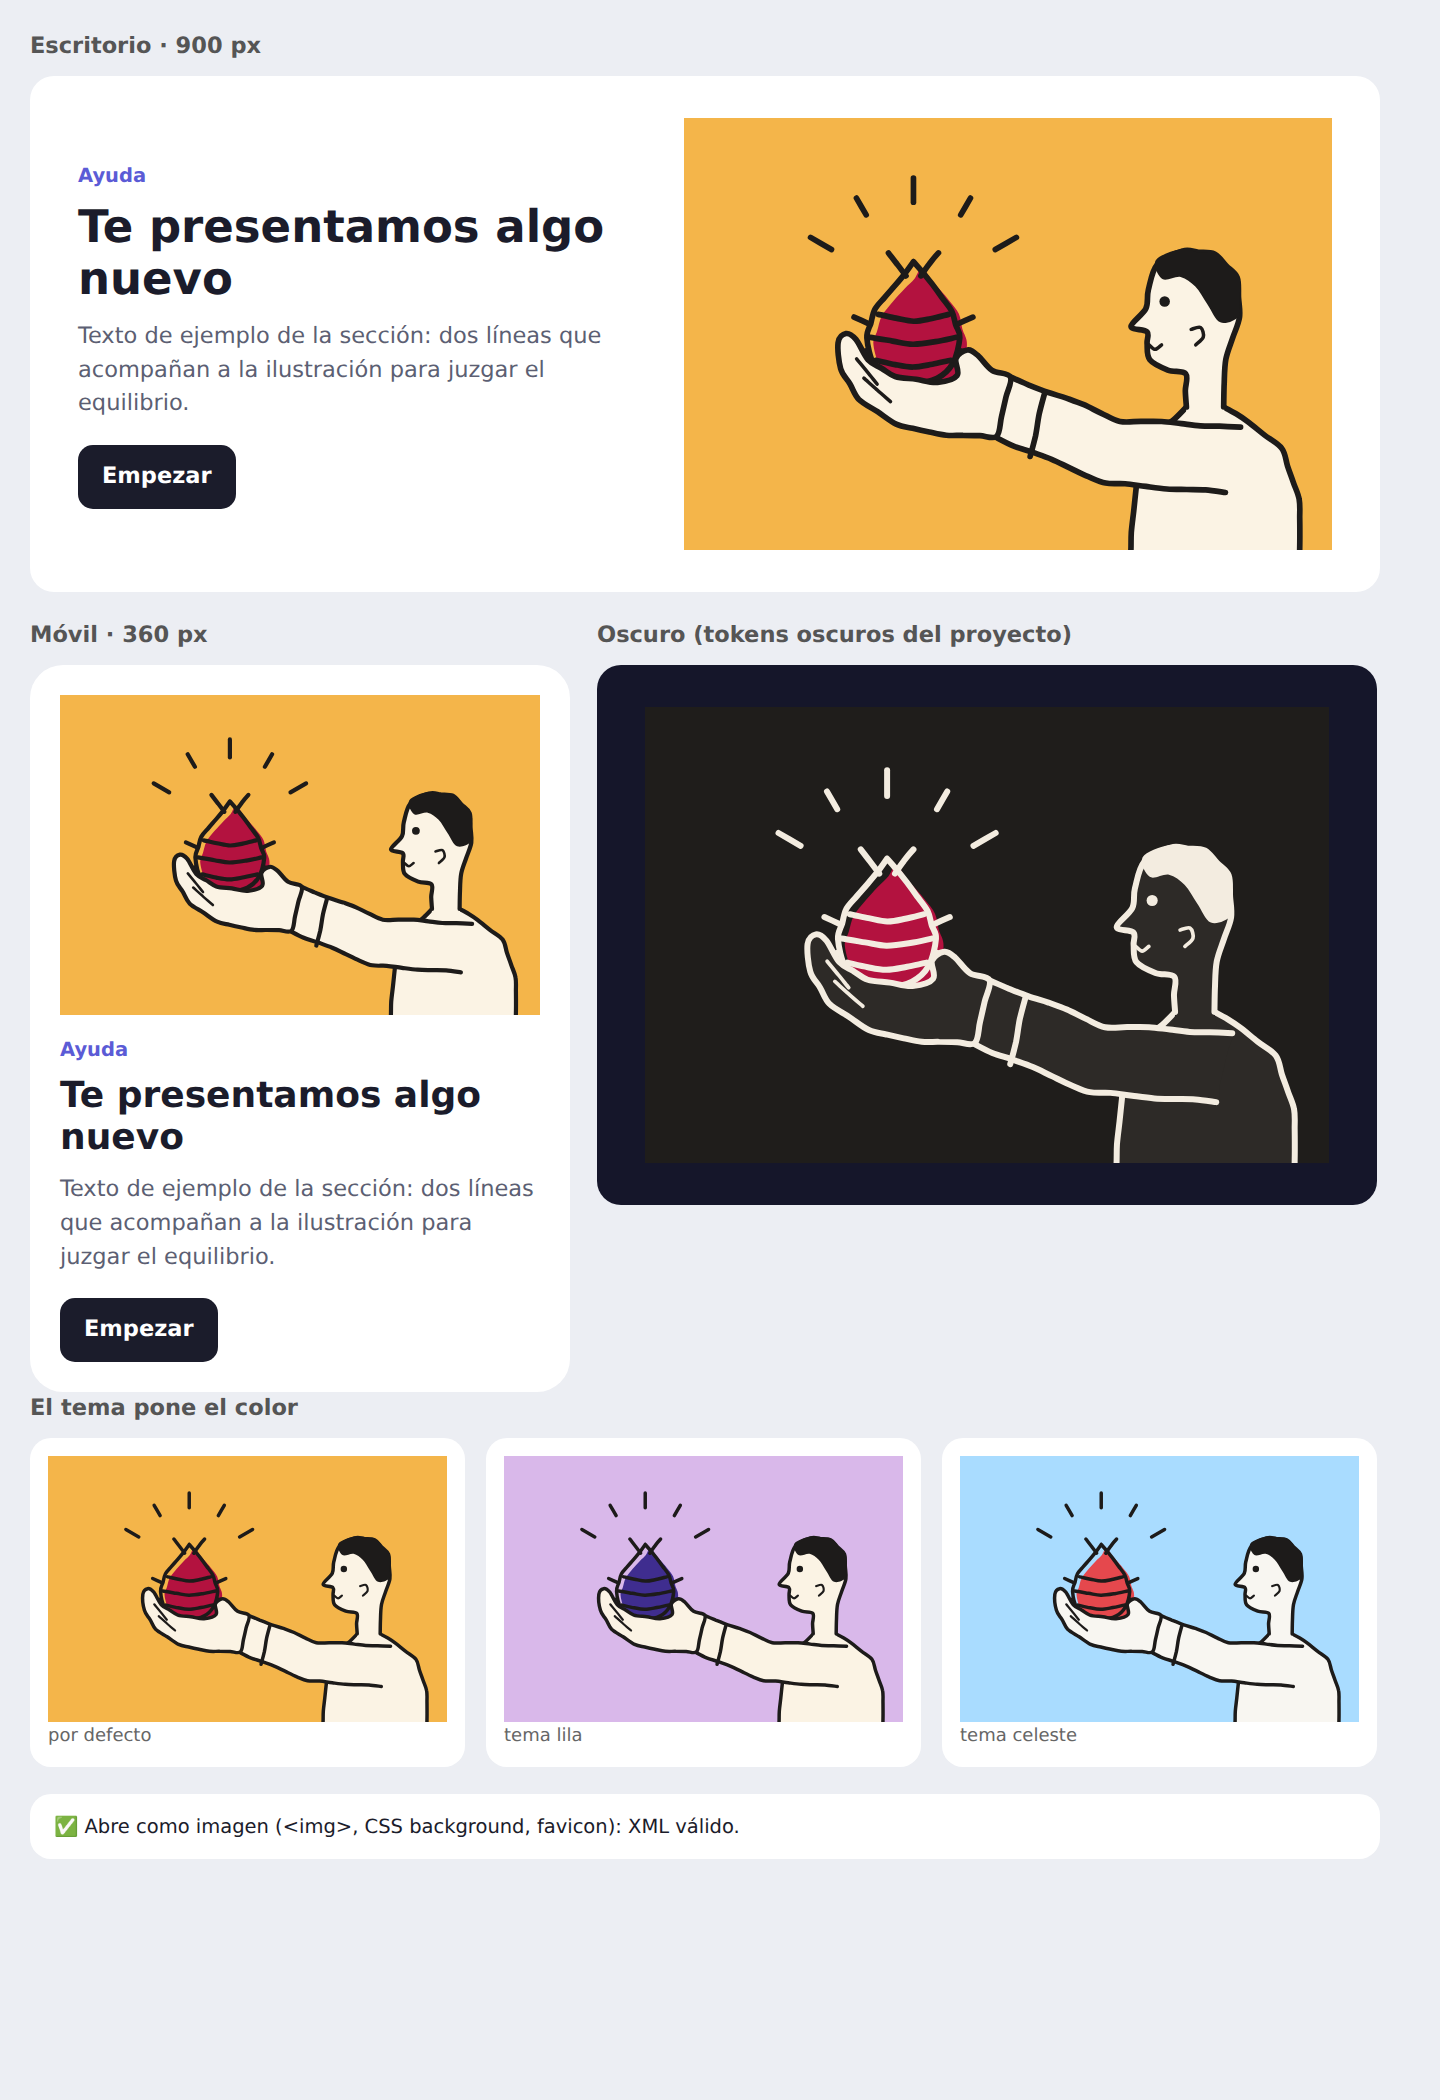
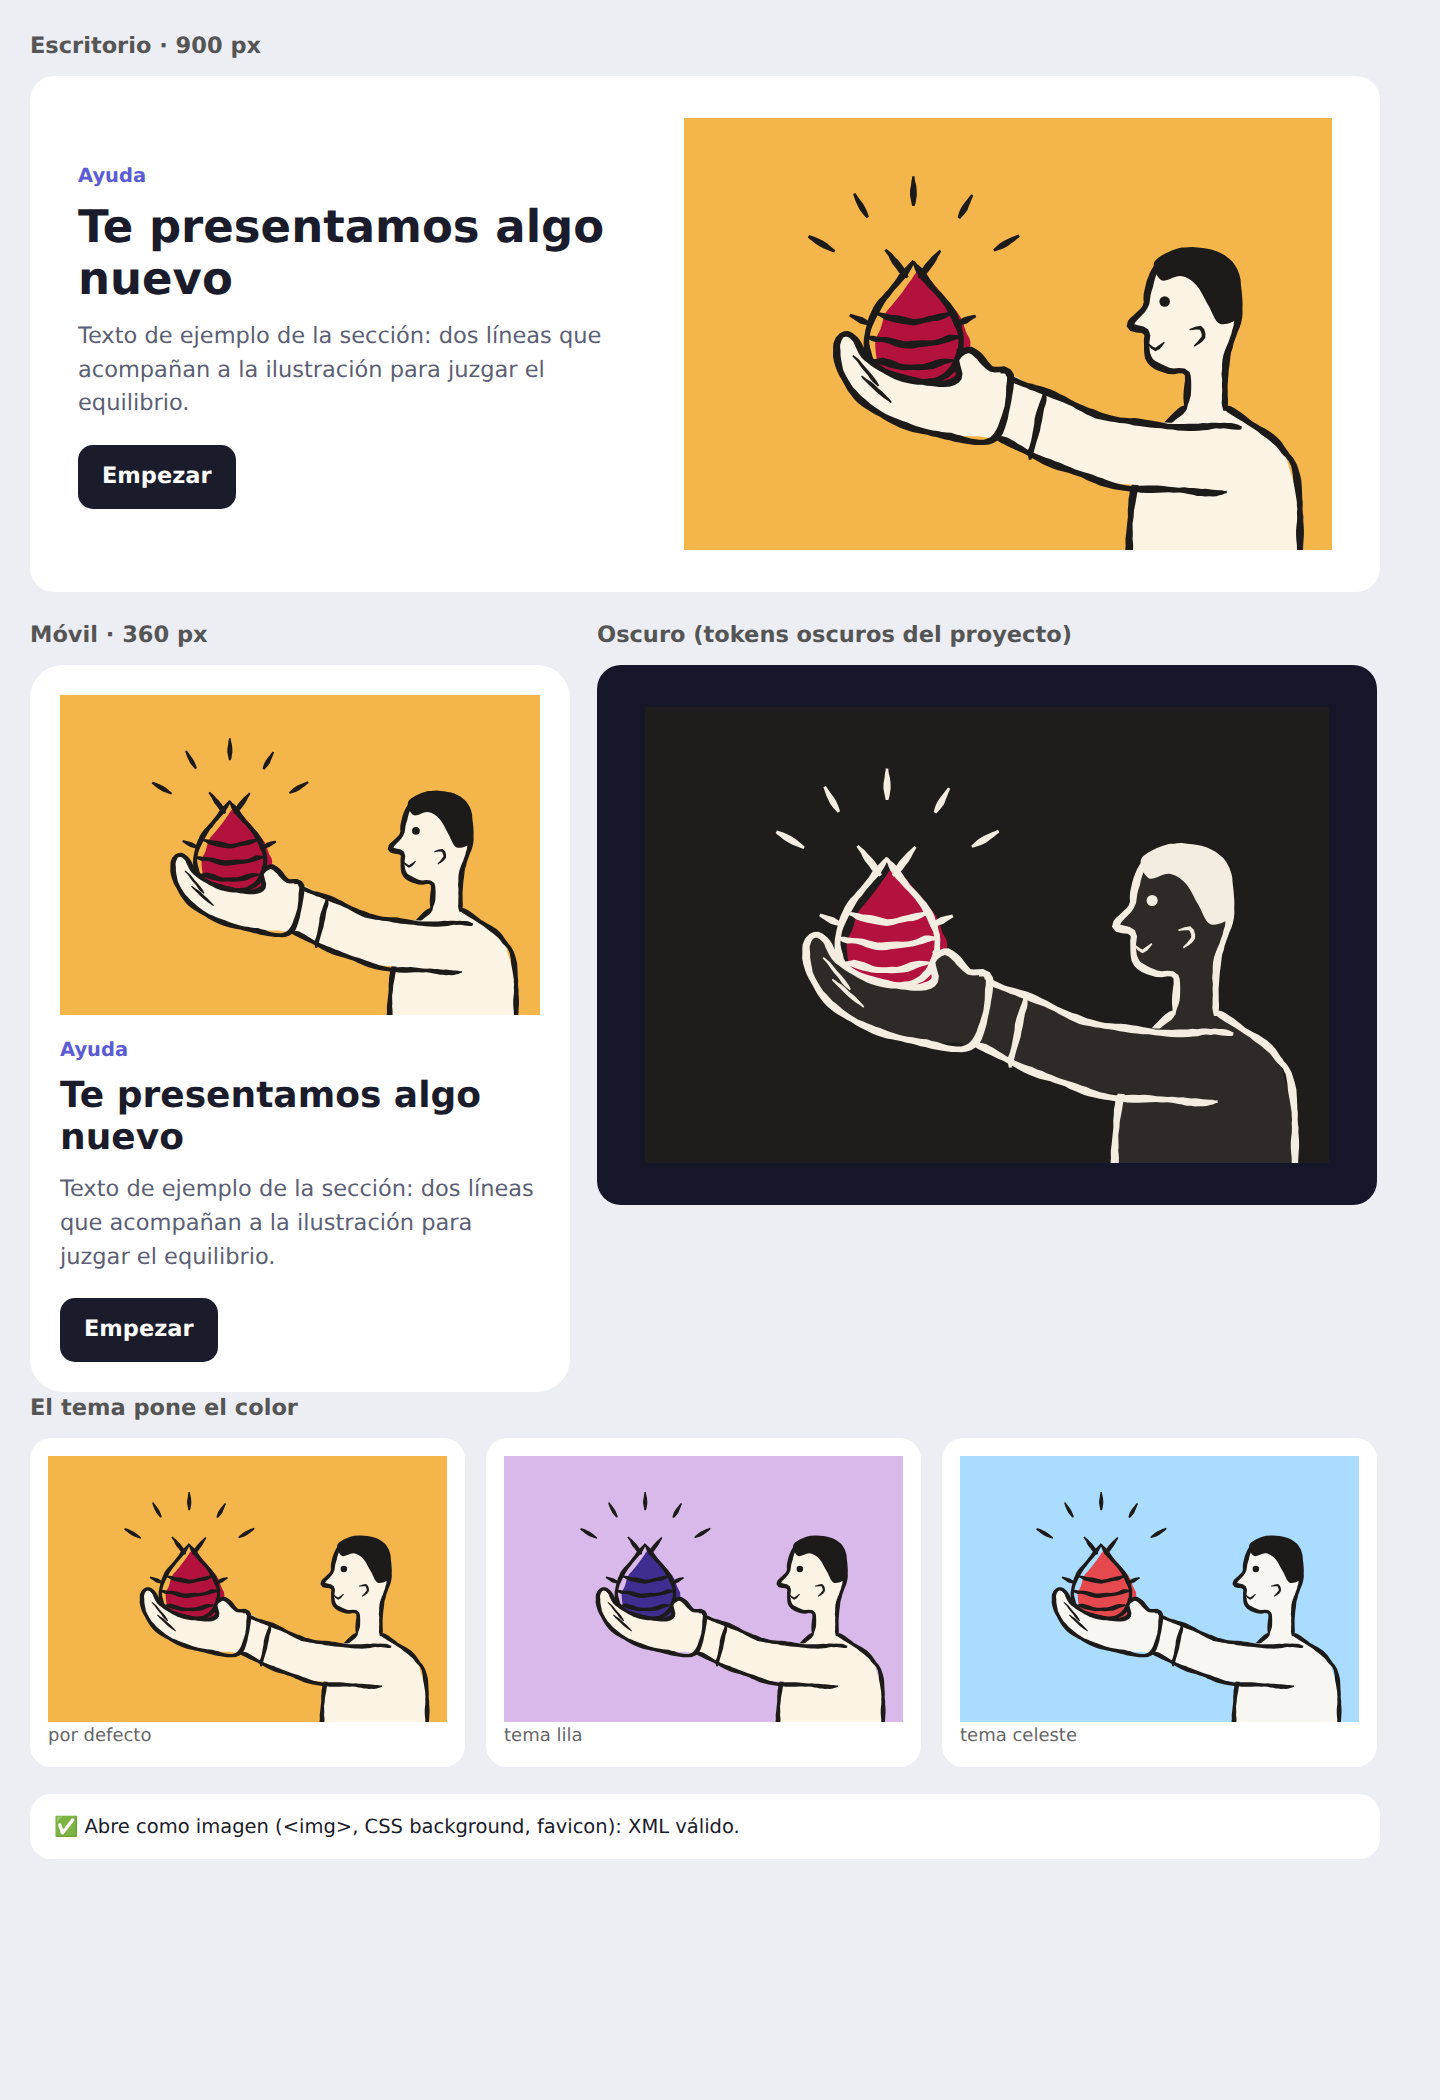
mango: trazo orgánico de grosor variable
Las líneas pasan a ser cintas rellenas cuyo grosor sigue la presión de la
mano (entran finas, salen afinándose, ondulan), con borde áspero y extremos
que se pasan; temblor y grano se escalan con la longitud del trazo para que
los gestos cortos sean firmes. Regla M3, contrato, kit y ejemplos al día.

Claude-Session: https://claude.ai/code/session_0139TfWapUP1QyepGUZapXLH

diff --git a/agentes/mango/references/reglas.md b/agentes/mango/references/reglas.md
@@ -10,10 +10,10 @@ Cada regla: **regla → mecanismo → cómo comprobarlo**. Salieron de construir
 - **Regla:** la escena cuenta el mensaje con un gesto o una situación con ingenio (alguien que se asoma, un brazo que sale de un agujero, un objeto con vida, rayitas de «¡ta-dá!»). La escena literal es el último recurso.
 - **Comprobar:** ¿se entiende el mensaje sin el titular y tiene algo que sorprende?
 
-## M3 · Temblor de rotulador, determinista
-- **Regla:** todo contorno pasa por `trazo()` con `semilla()` fija en la escena; amplitud 0.8 en trazos largos, 0.2–0.4 en cortos y detalles. Los extremos de un trazo abierto no tiemblan, para que las uniones encajen.
-- **Mecanismo:** el temblor lento (no ruido) imita el pulso de la mano y hace que las imperfecciones parezcan intención; la semilla fija hace que el dibujo no cambie al regenerarlo.
-- **Comprobar:** regenera dos veces: ¿sale idéntico? ¿Alguna unión se abre?
+## M3 · Trazo orgánico, determinista
+- **Regla:** toda línea es un `trazoOrganico()` (vía `linea()`) con `semilla()` fija en la escena: una cinta rellena cuyo grosor sigue la presión de la mano (entra fino en ~6 unidades, sale afinándose en ~9, ondula despacio por el medio), con el borde áspero y los extremos que se pasan un poco; las formas cerradas se solapan al cerrar.
+- **Mecanismo:** un trazo de grosor fijo y borde perfecto se lee como máquina aunque tiemble. La presión variable, el grano y las uniones imperfectas son lo que el ojo reconoce como mano. Temblor y grano se escalan con la longitud: un gesto corto (rayita, antena) es firme y afilado, no retorcido.
+- **Comprobar:** regenera dos veces: ¿sale idéntico? En la captura, ¿las rayitas son trazos firmes y los contornos largos varían de grosor?
 
 ## M4 · Relleno desplazado solo en el foco
 - **Regla:** el relleno de `acento` del objeto foco va desplazado ~6 unidades del contorno (impresión mal registrada); el resto de rellenos (`papel`) coinciden con su contorno.

diff --git a/agentes/mango/references/kit.md b/agentes/mango/references/kit.md
@@ -21,8 +21,9 @@ writeFileSync('presenta.svg', ilustracion({ id: 'presenta', titulo: 'Una persona
 | Pieza | Parámetros y retorno |
 |---|---|
 | `semilla(n)` | fija el temblor (M3) |
-| `trazo(pts, {cerrado, temblor, paso})` | camino suave con temblor por los puntos de control |
-| `linea(pts, {fina, cerrado, temblor})` / `relleno(rol, pts, {desplaza})` | línea de tinta / forma rellena (con desplazamiento opcional, M4) |
+| `trazoOrganico(pts, {cerrado, ancho, temblor})` | la línea de mano: cinta rellena con presión variable, grano y extremos que se pasan (M3); `linea()` la usa |
+| `trazo(pts, {cerrado, temblor, paso})` | contorno suave con temblor, para los rellenos |
+| `linea(pts, {fina, cerrado, temblor})` / `relleno(rol, pts, {desplaza})` | línea de tinta (gruesa 4.8 o fina 2.8) / forma rellena (con desplazamiento opcional, M4) |
 | `tf(pts, {x, y, s, rot, flip})` | transforma puntos antes del temblor (el temblor no se escala) |
 | `brazo({desde, hasta, ancho, curva, puno})` | manga de papel con puño → `{ svg, muneca, angulo }` |
 | `mano({x, y, rot, s, flip, gesto})` | `cuenco` (palma arriba, sostiene), `senala` (índice), `abierta` (saludar, chocar) → `{ svg, apoyo }`. Con el brazo hacia la izquierda: `flip: true, rot: angulo - 180` |

diff --git a/agentes/mango/references/contrato-svg.md b/agentes/mango/references/contrato-svg.md
@@ -22,7 +22,7 @@ La columna **Verifica** es el código de `scripts/check-ilustracion.mjs`; «manu
 
 ## Roles de color
 
-`fondo` (rectángulo de fondo), `tinta` (líneas, ojos, masas oscuras), `papel` (relleno de personas y objetos claros), `acento` (el foco), `acento-2` (segundo color, opcional). Token: `--mango-<rol>`. Valores por defecto y de modo oscuro: `ROLES` y `DARK` en `scripts/kit.mjs`. Las líneas usan las clases `mango-<id>__linea` (4.2) y `mango-<id>__fina` (2.6), siempre en `tinta`. El proyecto conecta los roles a sus tokens:
+`fondo` (rectángulo de fondo), `tinta` (líneas, ojos, masas oscuras), `papel` (relleno de personas y objetos claros), `acento` (el foco), `acento-2` (segundo color, opcional). Token: `--mango-<rol>`. Valores por defecto y de modo oscuro: `ROLES` y `DARK` en `scripts/kit.mjs`. Las líneas son formas rellenas de grosor variable con la clase `mango-<id>__trazo` (relleno `tinta`; grosor base 4.8, fina 2.8). El proyecto conecta los roles a sus tokens:
 
 ```css
 :root { --mango-fondo: var(--color-brand-soft); --mango-acento: var(--color-brand); --mango-tinta: var(--color-ink); }

diff --git a/agentes/mango/AGENT.md b/agentes/mango/AGENT.md
@@ -49,7 +49,7 @@ Responde en el idioma del usuario.
 
 1. Tokens `illustration.*` en `.fruti/tokens.json` si Lima los materializó (roles → valores).
 2. Tokens de color del proyecto (`.fruti/tokens.json`, perfil): Mango mapea sus roles a ellos (`--mango-acento: var(--color-brand)`).
-3. **Base de Mango:** los valores por defecto de `ROLES` en `scripts/kit.mjs` (lienzo 480×320, línea 4.2 y fina 2.6 escaladas con el lienzo, temblor 0.8 en trazos largos y 0.2–0.4 en cortos, fondo cálido, papel crema, tinta casi negra, acento carmín). Sin tokens propios se registra `style_source: mango-base`; convertirlo en token lo decide Lima.
+3. **Base de Mango:** los valores por defecto de `ROLES` en `scripts/kit.mjs` (lienzo 480×320, línea de grosor variable 4.8 (fina 2.8) con presión, grano y extremos que se pasan, fondo cálido, papel crema, tinta casi negra, acento carmín). Sin tokens propios se registra `style_source: mango-base`; convertirlo en token lo decide Lima.
 
 ## Proceso (I1 → I5)
 
